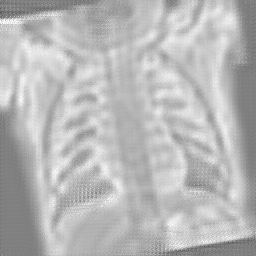
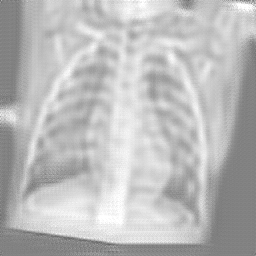
add decryption module and test

diff --git a/encrypt_decrypt.py b/encrypt_decrypt.py
@@ -2,34 +2,37 @@ import torch
 from torchvision.utils import save_image
 from Models.generator import Generator
 from Models.encryption import Encryption
+from Models.decryption import Decryption
 from chest_xray_dataset import ChestXrayDataset
 from sklearn.manifold import TSNE
 import numpy as np
+import cv2
 import matplotlib.pyplot as plt
 import random
 
 if __name__ == '__main__':
-    decrypt = Generator(img_channels=1, num_residuals=3)
-    plain = Generator(img_channels=1, num_residuals=3)
+    generate = Generator(img_channels=1, num_residuals=3)
     encrypt = Encryption(img_channels=1)
+    decrypt = Decryption(img_channels=1, num_residuals=3)
 
     decrypt.eval()
     encrypt.eval()
 
-    decrypt.load_state_dict(torch.load("Weights/enc_gen/5.pth"), strict=True)
+    generate.load_state_dict(torch.load("Weights/enc_gen/5.pth"), strict=True)
     encrypt.load_state_dict(torch.load("Weights/enc_gen/5.pth"), strict=False)
-    plain.load_state_dict(torch.load("Weights/dec_gen/5.pth"), strict=True)
+    decrypt.load_state_dict(torch.load("Weights/enc_gen/5.pth"), strict=False)
 
     # Choose a random image to encrypt
     ids = list(range(1, 1342))
     sampled_id = random.choice(ids)
 
-    img = ChestXrayDataset(ids).__getitem__(sampled_id)
+    img = ChestXrayDataset(ids).__getitem__(999)
 
     # Encrypt and Decrypt
     img_enc = encrypt(img)
-    img_dec = decrypt(img)
-    plain_img = plain(img_dec)
+    img_dec = decrypt(img_enc)
+    # Test the cyclic generation of the algorithm
+    plain_img = generate(img_dec)
 
     # Visualise using T-SNE
     latent_img = img_enc.detach().numpy()
@@ -39,10 +42,26 @@ if __name__ == '__main__':
 
     latent_img_vis = np.reshape(latent_comp_3, (64, 64, 3)).astype(np.uint8)
     latent_img_vis = np.round((latent_img_vis+1)*255)//2
-    plt.imshow(latent_img_vis)
-    plt.show()
 
-    # Plain and Decrypted Image
+    # Save Original Image and Decrypted Image
     save_image(img_dec*0.5+0.5, "Test_Outputs/Decrypted/output.png")
     save_image(plain_img*0.5+0.5, "Test_Outputs/Plain/output.png")
     save_image(img, "Test_Outputs/Original_Plain/input.png")
+
+    # Display Outputs on window
+    plain = cv2.imread("./Test_Outputs/Plain/output.png")
+    decrypted = cv2.imread("./Test_Outputs/Decrypted/output.png")
+
+    fig = plt.figure(figsize=(10, 10), dpi=72)
+    ax1 = fig.add_subplot(1, 3, 1)
+    ax1.imshow(plain)
+    ax1.set_title("Input Image")
+
+    ax2 = fig.add_subplot(1, 3, 2)
+    ax2.imshow(latent_img_vis)
+    ax2.set_title("Encrypted Image in 2D")
+
+    ax3 = fig.add_subplot(1, 3, 3)
+    ax3.imshow(decrypted)
+    ax3.set_title("Decrypted Image")
+    plt.show()

diff --git a/Models/decryption.py b/Models/decryption.py
@@ -1,0 +1,35 @@
+import torch
+from torch import nn
+from torch.nn import Module, Conv2d, ReLU, InstanceNorm2d
+from Models.Components.convolution_block import ConvolutionBlock
+from Models.Components.residual_block import ResidualBlock
+
+
+class Decryption(Module):
+    def __init__(self, img_channels: int, num_features: int = 64, num_residuals: int = 6):
+
+        super(Decryption, self).__init__()
+
+        # Bottleneck
+        self.residual_layers = nn.Sequential(
+            *[ResidualBlock(num_features * 4) for _ in range(num_residuals)]
+        )
+
+        # Decoder
+        self.dec1 = ConvolutionBlock(
+            num_features*4, num_features*2, is_downsampling=False, kernel_size=3, stride=2, padding=1, output_padding=1)
+        self.dec2 = ConvolutionBlock(
+            num_features*2, num_features, is_downsampling=False, kernel_size=3, stride=2, padding=1, output_padding=1)
+
+        self.final_layer = Conv2d(
+            num_features, img_channels, kernel_size=7, stride=1, padding=3, padding_mode='reflect')
+
+    def forward(self, x):
+        x = self.residual_layers(x)
+
+        x = self.dec1(x)
+        x = self.dec2(x)
+
+        x = self.final_layer(x)
+
+        return x

diff --git a/readme.md b/readme.md
@@ -1,0 +1,1 @@
+# Deep Learning based Encryption-Decryption using GANs
